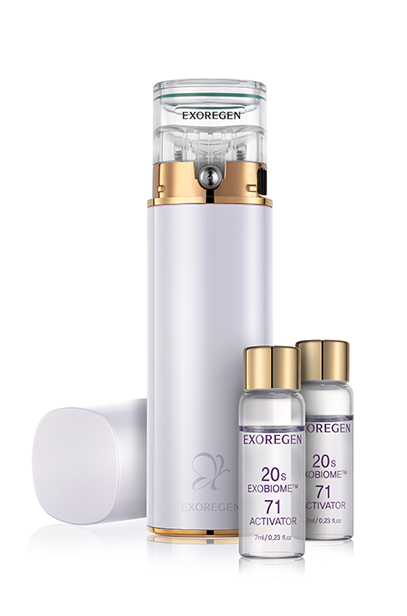
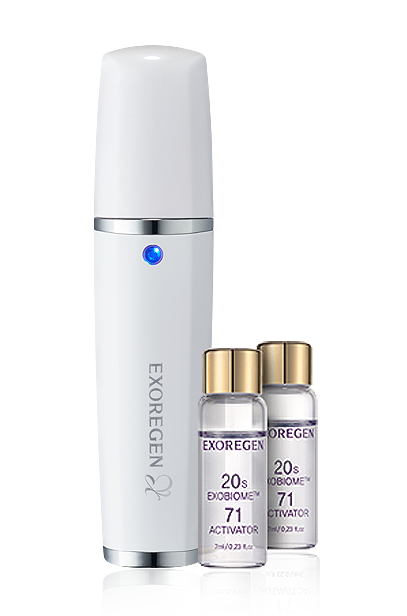
[MO/스킨테스트] 스킨테스트 결과값 페이지 수정
1. 액티베이터 미스트 제품 모델 변경으로 인한 이미지 교체
2. 듀얼마스크 제품 단종으로인해 스피디 카밍젤 제품으로 이미지 및 텍스트 변경

Changed region(s): [[0.059, 0.0617, 0.8845, 0.9562], [0.2359, 0.1542, 0.2654, 0.1851]]

diff --git a/skin-test-b3.html b/skin-test-b3.html
@@ -254,7 +254,7 @@
                             <span class="recommand-txt">
                                 진정및 보습을 위한
                                 <br />
-                                <strong>마스크</strong>제품을 추천드립니다.
+                                <strong>엑소좀 스피디 카밍젤</strong>제품을 추천드립니다.
                             </span>
                         </p>
                     </div>
@@ -272,17 +272,17 @@
                             RESULT <span class="result-type">B-3</span>
                         </h3>
                         <div class="result-product-name-box">
-                            <p>엑소리젠 스피디 듀얼마스크</p>
-                            <p>EXOREGEN SPEEDY DUAL MASK</p>
+                            <p>엑소리젠 엑소좀 스피디 카밍젤</p>
+                            <p>EXOREGEN EXOSOME SPEEDY CALMING GEL</p>
                         </div>
                     </div>
                     <div class="result-product-box">
-                        <img src="/img_/skin-test/dual-mask.png" alt="엑소리젠 스피디 듀얼마스크">
+                        <img src="/img_/skin-test/calming-gel.png" alt="엑소리젠 엑소좀 스피디 카밍젤">
                     </div>
                     <p class="result-product-desc">
-                        예민한 피부에 즉각적인 진정과 수분을 충전하는 리차징 앤 수딩젤과 보습 및 영양을 전달하는
-                        리텍스처 크림 마스크이 피부에 빠른 진정 효과와 수분 충전!
-                        칼라민 성분함유의 부드러운 크림 텍스처로 피부에 진정 및 보습에 도움을 줍니다.
+                        건조하고 칙칙한 피부를 시원하고 수분감있게 해주는 수딩젤!
+                        쫀쫀한 젤 텍스처로 메마른 피부에 빠르게 흡수하여 
+                        건조하고 칙칙한 피부의 진정 및 보습에 도움을 줍니다. 
                     </p>
                     <a href="/product-detail.html" class="circle-btn">
                         <img src="/img_/icon/link-arrow.png" alt="페이지 이동" />

diff --git a/skin-test-c1.html b/skin-test-c1.html
@@ -254,7 +254,7 @@
                             <span class="recommand-txt">
                                 진정및 보습을 위한
                                 <br />
-                                <strong>마스크</strong>제품을 추천드립니다.
+                                <strong>엑소좀 스피디 카밍젤</strong>제품을 추천드립니다.
                             </span>
                         </p>
                     </div>
@@ -272,17 +272,17 @@
                             RESULT <span class="result-type">C-1</span>
                         </h3>
                         <div class="result-product-name-box">
-                            <p>엑소리젠 스피디 듀얼마스크</p>
-                            <p>EXOREGEN SPEEDY DUAL MASK</p>
+                            <p>엑소리젠 엑소좀 스피디 카밍젤</p>
+                            <p>EXOREGEN EXOSOME SPEEDY CALMING GEL</p>
                         </div>
                     </div>
                     <div class="result-product-box">
-                        <img src="/img_/skin-test/dual-mask.png" alt="엑소리젠 스피디 듀얼마스크">
+                        <img src="/img_/skin-test/calming-gel.png" alt="엑소리젠 엑소좀 스피디 카밍젤">
                     </div>
                     <p class="result-product-desc">
-                        예민한 피부에 즉각적인 진정과 수분을 충전하는 리차징 앤 수딩젤과 보습 및 영양을 전달하는
-                        리텍스처 크림 마스크이 피부에 빠른 진정 효과와 수분 충전!
-                        칼라민 성분함유의 부드러운 크림 텍스처로 피부에 진정 및 보습에 도움을 줍니다.
+                        건조하고 칙칙한 피부를 시원하고 수분감있게 해주는 수딩젤!
+                        쫀쫀한 젤 텍스처로 메마른 피부에 빠르게 흡수하여 
+                        건조하고 칙칙한 피부의 진정 및 보습에 도움을 줍니다. 
                     </p>
                     <a href="/product-detail.html" class="circle-btn">
                         <img src="/img_/icon/link-arrow.png" alt="페이지 이동" />

diff --git a/skin-test-a1.html b/skin-test-a1.html
@@ -277,7 +277,7 @@
                         </div>
                     </div>
                     <div class="result-product-box">
-                        <img src="/img_/skin-test/activator.png" alt="20s 엑소바이옴™71 액티베이터 + 마이크로 더마블로우 미스트">
+                        <img src="/img_/skin-test/activator.png?ver=240104" alt="20s 엑소바이옴™71 액티베이터 + 마이크로 더마블로우 미스트">
                     </div>
                     <p class="result-product-desc">
                         건강한 피부 유수분 밸런스를 위한 수분 농축 앰플로 피부에 빠르게 흡수되어 수분과 탄력을 공급하고 윤

diff --git a/src/css/common.css b/src/css/common.css
@@ -4281,6 +4281,7 @@ header.reset .menu-btn div {
 }
 #skinTest .section-test-result .result-product-box {
   text-align: center;
+  margin: 15px 0;
 }
 #skinTest .section-test-result .result-product-box img {
   max-width: 50%;
